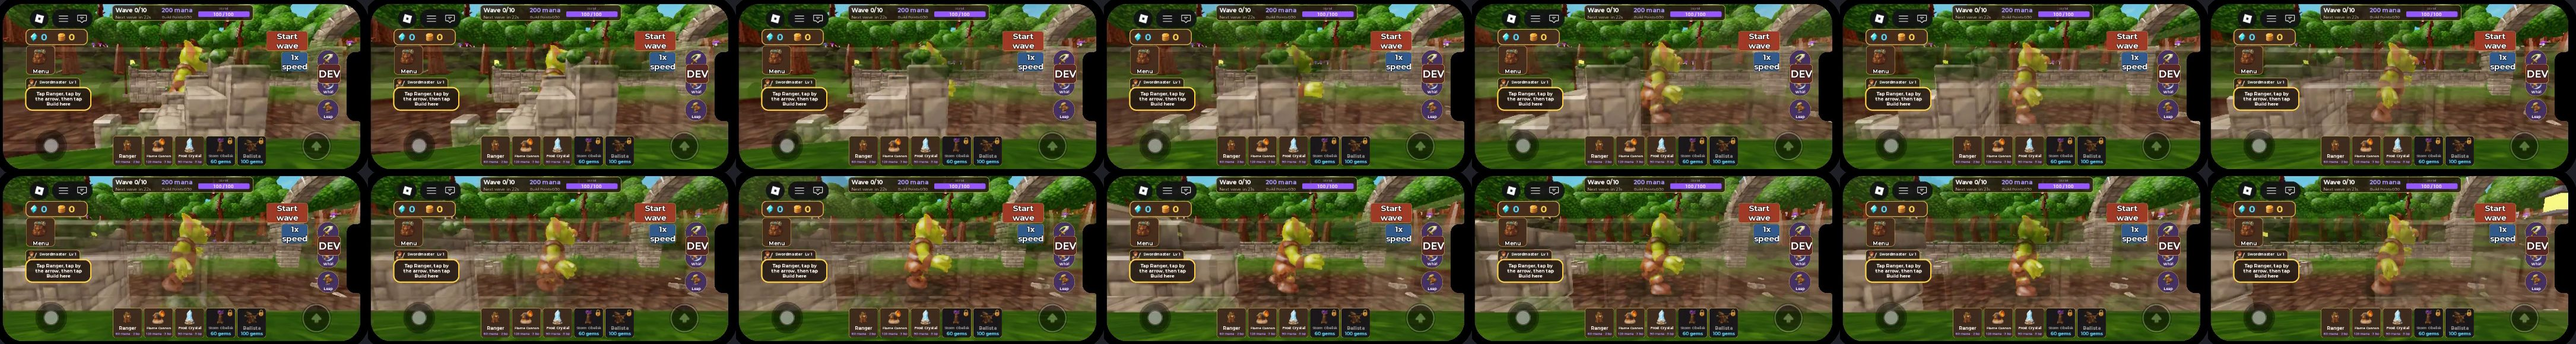
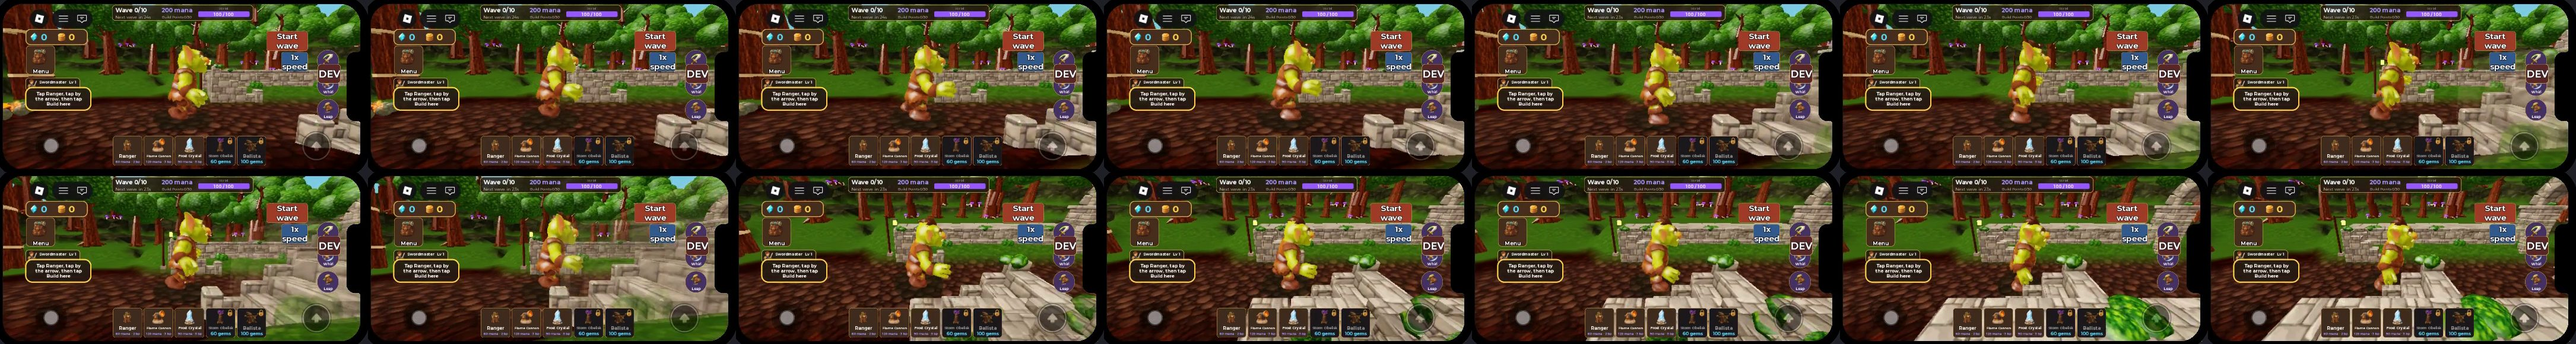
Goblin round 2: re-film the side run from the open side (the ghosting was MapFade fading the wall between the test camera and the hero)

diff --git a/reviews/anim/goblin_ingame_round2/README.md b/reviews/anim/goblin_ingame_round2/README.md
@@ -63,7 +63,7 @@ All numbers are CIE Lab dE, at graphics level 1, for the skin pixels of the phon
 
 | file | what it shows |
 |---|---|
-| `phone_run_side.jpg`, `phone_run_34.jpg` | the bouncy run, 10 frames/s |
+| `phone_run_side.jpg`, `phone_run_34.jpg` | the bouncy run, 10 frames/s. `phone_run_side.jpg` was re-filmed from the open side: the first take looked see-through because MapFade faded the wall between the test camera and the hero, with the goblin behind it. Neither the goblin nor the capture was see-through. In play the camera follows the hero, so that fade is meant. |
 | `phone_hit_from_side.jpg` | the rock-back from the hero's side, then the fall |
 | `phone_knockout_alone.jpg` | the fall, 14 frames/s |
 | `clip_phone.mp4` | the whole run |
